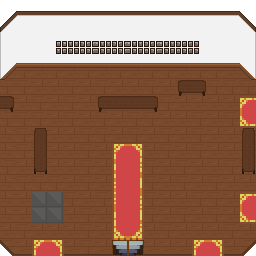
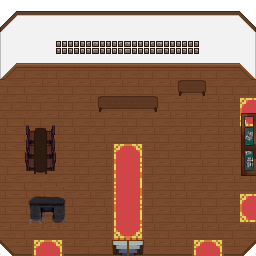
chore: Atualizacao jogos

diff --git a/public/jogos/jogoIsac/index.html b/public/jogos/jogoIsac/index.html
@@ -6,7 +6,7 @@
     <meta name="viewport" content="width=device-width, initial-scale=1.0" />
     <link rel="stylesheet" href="./style.css" />
     <title>Sussuros do Museu</title>
-    <script type="module" crossorigin src="./assets/index-CXEvgy8_.js"></script>
+    <script type="module" crossorigin src="./assets/index-BbrU_5f8.js"></script>
     <link rel="modulepreload" crossorigin href="./assets/phaser-UvlxNa5i.js">
   </head>
 

diff --git a/src/app/jogos/page.tsx b/src/app/jogos/page.tsx
@@ -48,7 +48,7 @@ export default function Jogos() {
   // Página com cards bonitos
   return (
     <div className="min-h-screen p-8 bg-gradient-to-b from-white to-gray-100">
-      <h1 className="text-4xl font-extrabold text-center mb-10">
+      <h1 className="text-4xl font-extrabold text-center mb-10 text-gray-800">
         🎮 Escolha seu jogo
       </h1>
 

diff --git a/public/assets/index-BbrU_5f8.js b/public/assets/index-BbrU_5f8.js
@@ -1,0 +1,1 @@
+import{r as e}from"./phaser-UvlxNa5i.js";!function(){const e=document.createElement("link").relList;if(!(e&&e.supports&&e.supports("modulepreload"))){for(const e of document.querySelectorAll('link[rel="modulepreload"]'))t(e);new MutationObserver((e=>{for(const a of e)if("childList"===a.type)for(const e of a.addedNodes)"LINK"===e.tagName&&"modulepreload"===e.rel&&t(e)})).observe(document,{childList:!0,subtree:!0})}function t(e){if(e.ep)return;e.ep=!0;const t=function(e){const t={};return e.integrity&&(t.integrity=e.integrity),e.referrerPolicy&&(t.referrerPolicy=e.referrerPolicy),"use-credentials"===e.crossOrigin?t.credentials="include":"anonymous"===e.crossOrigin?t.credentials="omit":t.credentials="same-origin",t}(e);fetch(e.href,t)}}();var t=e();class a extends t.Scene{constructor(){super("Boot")}preload(){this.load.image("background","assets/bg.png")}create(){this.scene.start("Preloader")}}class i extends t.Scene{setupMovement(e,t=160){this.character=e,this.characterSpeed=t,this.cursors=this.input.keyboard.createCursorKeys(),this.character.setCollideWorldBounds(!0),this.character.setScale(.5),this.character.body.setSize(40,50),this.character.body.setOffset(12,14)}updateMovement(){this.cursors&&this.character&&(this.character.setVelocity(0),this.cursors.left.isDown?this.character.setVelocityX(-this.characterSpeed):this.cursors.right.isDown&&this.character.setVelocityX(this.characterSpeed),this.cursors.up.isDown?this.character.setVelocityY(-this.characterSpeed):this.cursors.down.isDown&&this.character.setVelocityY(this.characterSpeed))}createDoor(e,t,a,i,s,r,h,c=null){const o=this.physics.add.staticBody(e,t,a,i);return this.physics.add.overlap(this.character,o,(()=>{this.useDoor(s,r,h,c)}),null,this),o}useDoor(e,t,a,i=null){this.registry.set("playerSpawn",{x:t,y:a,doorId:i}),this.scene.start(e)}setupPlayerPosition(e,t){const a=this.registry.get("playerSpawn");a&&a.x&&a.y?(this.character.setPosition(a.x,a.y),this.registry.set("playerSpawn",null)):this.character.setPosition(e,t)}createInteractiveObject(e,t,a,i,s){const r=this.physics.add.staticBody(e,t,a,i);let h=!1;return this.physics.add.overlap(this.character,r,(()=>{h=!0}),null,this),this.physics.world.on("worldbounds",(e=>{e.gameObject===this.character&&(h=!1)})),this.enterKey=this.input.keyboard.addKey(Phaser.Input.Keyboard.KeyCodes.ENTER),this.events.on("update",(()=>{h&&Phaser.Input.Keyboard.JustDown(this.enterKey)&&s()})),r}createCollisionObjects(e){const t=[];return e.forEach((e=>{const a=this.physics.add.staticBody(e.x,e.y,e.width,e.height);t.push(a)})),t}comecarJogoDaMemoriaInicial(){this.registry.set("previousScene",{key:this.scene.key,x:this.character.x,y:this.character.y}),this.scene.start("JogoDaMemoriaInicial")}comecarJogoDaMemoriaIndigena(){this.registry.set("previousScene",{key:this.scene.key,x:this.character.x,y:this.character.y}),this.scene.start("JogoMemoriaIndigena")}comecarJogoDaMemoriaCarroca(){this.registry.set("previousScene",{key:this.scene.key,x:this.character.x,y:this.character.y}),this.scene.start("JogoMemoriaCarroca")}comecarJogoDaMemoriaCinema(){this.registry.set("previousScene",{key:this.scene.key,x:this.character.x,y:this.character.y}),this.scene.start("JogoMemoriaCinema")}voltarParaCenaAnterior(){const e=this.registry.get("previousScene");e?this.scene.start(e.key):this.scene.start("GameInicial")}}class s extends t.Scene{constructor(){super("GameOver")}create(){this.cameras.main.setBackgroundColor(0),this.add.image(512,384,"background").setAlpha(.5),this.add.text(this.cameras.main.centerX,this.cameras.main.centerY,"Fim do Jogo",{fontFamily:"Arial Black",fontSize:32,color:"#ffffff",stroke:"#000000",strokeThickness:4,align:"center"}).setOrigin(.5),this.input.once("pointerdown",(()=>{this.scene.start("MainMenu")}))}}class r extends t.Scene{constructor(){super("MainMenu")}create(){this.add.image(this.cameras.main.centerX,this.cameras.main.centerY,"logo").setDisplaySize(this.cameras.main.width,this.cameras.main.height),this.add.text(512,460,"Menu",{fontFamily:"Arial Black",fontSize:38,color:"#ffffff",stroke:"#000000",strokeThickness:8,align:"center"}).setOrigin(.5),this.input.once("pointerdown",(()=>{this.scene.start("Historia")}))}}class h extends t.Scene{constructor(){super("Preloader")}init(){this.add.image(512,384,"background"),this.add.rectangle(512,384,468,32).setStrokeStyle(1,16777215);const e=this.add.rectangle(282,384,4,28,16777215);this.load.on("progress",(t=>{e.width=4+460*t}))}preload(){this.registry.set("jogoDaMemoriaInicialConcluido",!1),this.registry.set("jogoMemoriaCarrocaConcluido",!1),this.registry.set("jogoMemoriaCinemaConcluido",!1),this.registry.set("jogoMemoriaIndigenaConcluido",!1),this.load.image("logo","/assets/logo.jpg"),this.load.image("controles_imagem","/assets/controles.png"),this.load.image("historia_imagem","/assets/historia.png"),this.load.image("sala_principal","/assets/salas/TemplateSalaPrincipalJogo.png"),this.load.image("sala_indigena","/assets/salas/TemplateSalaPatIndigenaJogo.png"),this.load.image("sala_material","/assets/salas/TemplateSalaPatMaterialJogo.png"),this.load.image("corredor","/assets/salas/TemplateSalaCorredorJogo.png"),this.load.image("sala_carroca","/assets/salas/TemplateSalaCarrocaJogo.png"),this.load.image("sala_chas","/assets/salas/TemplateSalaChasJogo.png"),this.load.image("sala_cinema","/assets/salas/TemplateSalaCinemaJogo.png"),this.load.spritesheet("character","/assets/personagens/Download43242.png",{frameWidth:64,frameHeight:64}),this.load.image("sala_material_pos","/assets/salas/TemplateSalaPatMaterialJogoPos.png"),this.load.image("sala_cinema_pos","/assets/salas/TemplateSalaCinemaJogoPos.png"),this.load.image("sala_chas_pos","/assets/salas/TemplateSalaChasJogoPos.png"),this.load.image("sala_carroca_pos","/assets/salas/TemplateSalaCarrocaJogoPos.png"),this.load.image("sala_indigena_pos","/assets/salas/TemplateSalaPatIndigenaJogoPos.png"),["oncaCranio","cocar","louca","maraca","prato","xicara","jarro","carranca"].forEach((e=>{this.load.image(e,`assets/artefatos/indigena/${e}.png`)})),["Boidemamao","Bull","Canoa","EsculturaIgrejaMatriz","Jarro","ObrasArgila","TernoDivino","VestidoDivino"].forEach((e=>{this.load.image(e,`assets/artefatos/patrimonioMaterial/${e}.png`)})),["CadeiraBarbeiro","Cafeteira","FerroPassar","Lampiao","MaquinaCostura","MaquinaEscrever","Pilao","Projetor"].forEach((e=>{this.load.image(e,`assets/artefatos/cinema/${e}.png`)})),["CapMilitar","carroça","Espada DOMPEDRO","Espada","Medalha","pistola","Rifle","Tronco"].forEach((e=>{this.load.image(e,`assets/artefatos/carroca/${e}.png`)}))}create(){this.scene.start("MainMenu")}}class c extends t.Scene{constructor(){super("Historia")}create(){this.add.image(this.cameras.main.centerX,this.cameras.main.centerY,"historia_imagem").setDisplaySize(this.cameras.main.width,this.cameras.main.height),this.input.once("pointerdown",(()=>{this.scene.start("Controles")}))}}class o extends t.Scene{constructor(){super("Controles")}create(){this.add.image(this.cameras.main.centerX,this.cameras.main.centerY,"controles_imagem").setDisplaySize(this.cameras.main.width,this.cameras.main.height),this.input.once("pointerdown",(()=>{this.scene.start("GameSalaInicial")}))}}const n={type:t.AUTO,width:322,height:260,parent:"game-container",backgroundColor:"#000000",physics:{default:"arcade",arcade:{gravity:{y:0},debug:!1}},scale:{mode:Phaser.Scale.FIT,autoCenter:Phaser.Scale.CENTER_BOTH},scene:[a,h,r,c,o,class extends i{constructor(){super("GameSalaInicial")}create(){this.physics.world.setBounds(30,65,265,192),this.add.image(this.cameras.main.centerX,this.cameras.main.centerY,"sala_principal"),this.character=this.physics.add.sprite(161,220,"character"),this.setupMovement(this.character,160),this.setupPlayerPosition(161,220);const e=this.createCollisionObjects([{x:66,y:130,width:15,height:48},{x:275,y:130,width:15,height:45},{x:130,y:98,width:60,height:16},{x:0,y:98,width:47,height:16},{x:210,y:82,width:30,height:16},{x:64,y:195,width:32,height:30},{x:145,y:242,width:32,height:30}]);this.physics.add.collider(this.character,e),this.createDoor(280,100,15,30,"GameCinema",58,113,"DireitaCima"),this.createDoor(280,195,15,30,"GameCinema",58,210,"DireitaBaixo"),this.createDoor(66,250,30,15,"GameMaterial",80,95,"BaixoEsquerda"),this.createDoor(226,250,30,15,"GameMaterial",223,95,"BaixoDireita"),this.input.once("pointerdown",(()=>{this.scene.start("GameOver")}))}update(){this.updateMovement()}},class extends i{constructor(){super("JogoDaMemoriaInicial"),this.cards=[],this.flippedCards=[],this.matchedPairs=0}create(){this.gridSize=4,this.cardSize=50,this.cards=[],this.flippedCards=[],this.matchedPairs=0,this.canFlip=!0,this.add.image(this.cameras.main.centerX,this.cameras.main.centerY,"sala_material"),this.criarCartas(),this.interface()}criarCartas(){const e=["Boidemamao","Bull","Canoa","EsculturaIgrejaMatriz","Jarro","ObrasArgila","TernoDivino","VestidoDivino"],t=[...e,...e];Phaser.Utils.Array.Shuffle(t);let a=0;for(let i=0;i<this.gridSize;i++)for(let e=0;e<this.gridSize;e++){const s=85+e*this.cardSize,r=60+i*this.cardSize,h=t[a],c=this.add.rectangle(s,r,this.cardSize,this.cardSize,9127187).setStrokeStyle(2,16777215).setInteractive(),o=this.add.sprite(s,r,h).setDisplaySize(this.cardSize-10,this.cardSize-10).setVisible(!1);c.setData({value:h,isFlipped:!1,isMatched:!1,frontImage:o}),c.on("pointerdown",(()=>this.flipCard(c))),this.cards.push(c),a++}}interface(){this.add.text(200,240,"Voltar",{fontSize:"14px",backgroundColor:"#333333",padding:{x:8,y:2}}).setInteractive().on("pointerdown",(()=>{this.voltarParaCenaAnterior()}))}flipCard(e){!this.canFlip||e.getData("isFlipped")||e.getData("isMatched")||(e.setData("isFlipped",!0),e.setFillStyle(16777215),e.getData("frontImage").setVisible(!0),this.flippedCards.push(e),2===this.flippedCards.length&&this.checkMatch())}checkMatch(){this.canFlip=!1;const[e,t]=this.flippedCards;e.getData("value")===t.getData("value")?(e.setData("isMatched",!0),t.setData("isMatched",!0),e.setFillStyle(65280),t.setFillStyle(65280),this.matchedPairs++,this.flippedCards=[],this.canFlip=!0,this.checkGameComplete()):this.time.delayedCall(1e3,(()=>{e.setData("isFlipped",!1),t.setData("isFlipped",!1),e.setFillStyle(9127187),t.setFillStyle(9127187),e.getData("frontImage").setVisible(!1),t.getData("frontImage").setVisible(!1),this.flippedCards=[],this.canFlip=!0}))}checkGameComplete(){this.matchedPairs===this.cards.length/2&&(this.add.text(this.cameras.main.centerX,50,"Memória Completa!",{fontSize:"32px",color:"#00ff00"}).setOrigin(.5),this.createCelebration())}createCelebration(){this.registry.set("jogoDaMemoriaInicialConcluido",!0);for(let e=0;e<20;e++){const e=this.add.circle(Phaser.Math.Between(100,700),Phaser.Math.Between(100,500),5,Phaser.Math.RND.pick([16711680,65280,255,16776960]));this.tweens.add({targets:e,y:600,alpha:0,duration:2e3,ease:"Power2"})}}update(){}},class extends i{constructor(){super("JogoMemoriaIndigena"),this.cards=[],this.flippedCards=[],this.matchedPairs=0}create(){this.gridSize=4,this.cardSize=50,this.cards=[],this.flippedCards=[],this.matchedPairs=0,this.canFlip=!0,this.add.image(this.cameras.main.centerX,this.cameras.main.centerY,"sala__inddigena"),this.criarCartas(),this.interface()}criarCartas(){const e=["oncaCranio","cocar","louca","maraca","prato","xicara","jarro","carranca"],t=[...e,...e];Phaser.Utils.Array.Shuffle(t);let a=0;for(let i=0;i<this.gridSize;i++)for(let e=0;e<this.gridSize;e++){const s=85+e*this.cardSize,r=60+i*this.cardSize,h=t[a],c=this.add.rectangle(s,r,this.cardSize,this.cardSize,9127187).setStrokeStyle(2,16777215).setInteractive(),o=this.add.sprite(s,r,h).setDisplaySize(this.cardSize-10,this.cardSize-10).setVisible(!1);c.setData({value:h,isFlipped:!1,isMatched:!1,frontImage:o}),c.on("pointerdown",(()=>this.flipCard(c))),this.cards.push(c),a++}}interface(){this.add.text(200,240,"Voltar",{fontSize:"14px",backgroundColor:"#333333",padding:{x:8,y:2}}).setInteractive().on("pointerdown",(()=>{this.voltarParaCenaAnterior()}))}flipCard(e){!this.canFlip||e.getData("isFlipped")||e.getData("isMatched")||(e.setData("isFlipped",!0),e.setFillStyle(16777215),e.getData("frontImage").setVisible(!0),this.flippedCards.push(e),2===this.flippedCards.length&&this.checkMatch())}checkMatch(){this.canFlip=!1;const[e,t]=this.flippedCards;e.getData("value")===t.getData("value")?(e.setData("isMatched",!0),t.setData("isMatched",!0),e.setFillStyle(65280),t.setFillStyle(65280),this.matchedPairs++,this.flippedCards=[],this.canFlip=!0,this.checkGameComplete()):this.time.delayedCall(1e3,(()=>{e.setData("isFlipped",!1),t.setData("isFlipped",!1),e.setFillStyle(9127187),t.setFillStyle(9127187),e.getData("frontImage").setVisible(!1),t.getData("frontImage").setVisible(!1),this.flippedCards=[],this.canFlip=!0}))}checkGameComplete(){this.matchedPairs===this.cards.length/2&&(this.add.text(this.cameras.main.centerX,50,"Memória Completa!",{fontSize:"32px",color:"#00ff00"}).setOrigin(.5),this.createCelebration())}createCelebration(){this.registry.set("jogoMemoriaIndigenaConcluido",!0);for(let e=0;e<20;e++){const e=this.add.circle(Phaser.Math.Between(100,700),Phaser.Math.Between(100,500),5,Phaser.Math.RND.pick([16711680,65280,255,16776960]));this.tweens.add({targets:e,y:600,alpha:0,duration:2e3,ease:"Power2"})}}update(){}},class extends i{constructor(){super("JogoMemoriaCarroca"),this.cards=[],this.flippedCards=[],this.matchedPairs=0}create(){this.gridSize=4,this.cardSize=50,this.cards=[],this.flippedCards=[],this.matchedPairs=0,this.canFlip=!0,this.add.image(this.cameras.main.centerX,this.cameras.main.centerY,"sala_carroca"),this.criarCartas(),this.interface()}criarCartas(){const e=["CapMilitar","carroça","Espada DOMPEDRO","Espada","Medalha","pistola","Rifle","Tronco"],t=[...e,...e];Phaser.Utils.Array.Shuffle(t);let a=0;for(let i=0;i<this.gridSize;i++)for(let e=0;e<this.gridSize;e++){const s=85+e*this.cardSize,r=60+i*this.cardSize,h=t[a],c=this.add.rectangle(s,r,this.cardSize,this.cardSize,9127187).setStrokeStyle(2,16777215).setInteractive(),o=this.add.sprite(s,r,h).setDisplaySize(this.cardSize-10,this.cardSize-10).setVisible(!1);c.setData({value:h,isFlipped:!1,isMatched:!1,frontImage:o}),c.on("pointerdown",(()=>this.flipCard(c))),this.cards.push(c),a++}}interface(){this.add.text(200,240,"Voltar",{fontSize:"14px",backgroundColor:"#333333",padding:{x:8,y:2}}).setInteractive().on("pointerdown",(()=>{this.voltarParaCenaAnterior()}))}flipCard(e){!this.canFlip||e.getData("isFlipped")||e.getData("isMatched")||(e.setData("isFlipped",!0),e.setFillStyle(16777215),e.getData("frontImage").setVisible(!0),this.flippedCards.push(e),2===this.flippedCards.length&&this.checkMatch())}checkMatch(){this.canFlip=!1;const[e,t]=this.flippedCards;e.getData("value")===t.getData("value")?(e.setData("isMatched",!0),t.setData("isMatched",!0),e.setFillStyle(65280),t.setFillStyle(65280),this.matchedPairs++,this.flippedCards=[],this.canFlip=!0,this.checkGameComplete()):this.time.delayedCall(1e3,(()=>{e.setData("isFlipped",!1),t.setData("isFlipped",!1),e.setFillStyle(9127187),t.setFillStyle(9127187),e.getData("frontImage").setVisible(!1),t.getData("frontImage").setVisible(!1),this.flippedCards=[],this.canFlip=!0}))}checkGameComplete(){this.matchedPairs===this.cards.length/2&&(this.add.text(this.cameras.main.centerX,50,"Memória Completa!",{fontSize:"32px",color:"#00ff00"}).setOrigin(.5),this.createCelebration())}createCelebration(){this.registry.set("jogoMemoriaCarrocaConcluido",!0);for(let e=0;e<20;e++){const e=this.add.circle(Phaser.Math.Between(100,700),Phaser.Math.Between(100,500),5,Phaser.Math.RND.pick([16711680,65280,255,16776960]));this.tweens.add({targets:e,y:600,alpha:0,duration:2e3,ease:"Power2"})}}update(){}},class extends i{constructor(){super("JogoMemoriaCinema"),this.cards=[],this.flippedCards=[],this.matchedPairs=0}create(){this.gridSize=4,this.cardSize=50,this.cards=[],this.flippedCards=[],this.matchedPairs=0,this.canFlip=!0,this.add.image(this.cameras.main.centerX,this.cameras.main.centerY,"sala_cinema"),this.criarCartas(),this.interface()}criarCartas(){const e=["CadeiraBarbeiro","Cafeteira","FerroPassar","Lampiao","MaquinaCostura","MaquinaEscrever","Pilao","Projetor"],t=[...e,...e];Phaser.Utils.Array.Shuffle(t);let a=0;for(let i=0;i<this.gridSize;i++)for(let e=0;e<this.gridSize;e++){const s=85+e*this.cardSize,r=60+i*this.cardSize,h=t[a],c=this.add.rectangle(s,r,this.cardSize,this.cardSize,9127187).setStrokeStyle(2,16777215).setInteractive(),o=this.add.sprite(s,r,h).setDisplaySize(this.cardSize-10,this.cardSize-10).setVisible(!1);c.setData({value:h,isFlipped:!1,isMatched:!1,frontImage:o}),c.on("pointerdown",(()=>this.flipCard(c))),this.cards.push(c),a++}}interface(){this.add.text(200,240,"Voltar",{fontSize:"14px",backgroundColor:"#333333",padding:{x:8,y:2}}).setInteractive().on("pointerdown",(()=>{this.voltarParaCenaAnterior()}))}flipCard(e){!this.canFlip||e.getData("isFlipped")||e.getData("isMatched")||(e.setData("isFlipped",!0),e.setFillStyle(16777215),e.getData("frontImage").setVisible(!0),this.flippedCards.push(e),2===this.flippedCards.length&&this.checkMatch())}checkMatch(){this.canFlip=!1;const[e,t]=this.flippedCards;e.getData("value")===t.getData("value")?(e.setData("isMatched",!0),t.setData("isMatched",!0),e.setFillStyle(65280),t.setFillStyle(65280),this.matchedPairs++,this.flippedCards=[],this.canFlip=!0,this.checkGameComplete()):this.time.delayedCall(1e3,(()=>{e.setData("isFlipped",!1),t.setData("isFlipped",!1),e.setFillStyle(9127187),t.setFillStyle(9127187),e.getData("frontImage").setVisible(!1),t.getData("frontImage").setVisible(!1),this.flippedCards=[],this.canFlip=!0}))}checkGameComplete(){this.matchedPairs===this.cards.length/2&&(this.add.text(this.cameras.main.centerX,50,"Memória Completa!",{fontSize:"32px",color:"#00ff00"}).setOrigin(.5),this.createCelebration())}createCelebration(){this.registry.set("jogoMemoriaCinemaConcluido",!0);for(let e=0;e<20;e++){const e=this.add.circle(Phaser.Math.Between(100,700),Phaser.Math.Between(100,500),5,Phaser.Math.RND.pick([16711680,65280,255,16776960]));this.tweens.add({targets:e,y:600,alpha:0,duration:2e3,ease:"Power2"})}}update(){}},class extends i{constructor(){super("GameMaterial")}create(){this.physics.world.setBounds(30,65,265,192),this.add.image(this.cameras.main.centerX,this.cameras.main.centerY,"sala_material"+(this.registry.get("jogoDaMemoriaInicialConcluido")?"_pos":"")),this.character=this.physics.add.sprite(100,300,"character"),this.setupPlayerPosition(100,300),this.setupMovement(this.character,160),this.createDoor(67,60,29,15,"GameSalaInicial",80,228,"CimaEsquerda"),this.createDoor(210,60,29,15,"GameSalaInicial",240,228,"CimaDireita"),this.createDoor(280,131,15,30,"GameCorredor",65,128,"LateralDireita");const e=this.createCollisionObjects([{x:30,y:97,width:36,height:34},{x:30,y:160,width:36,height:34},{x:30,y:242,width:265,height:15},{x:112,y:70,width:80,height:12},{x:243,y:225,width:28,height:16},{x:82,y:225,width:45,height:16},{x:273,y:80,width:15,height:48},{x:273,y:165,width:15,height:48}]);this.createInteractiveObject(150,150,40,40,(()=>this.comecarJogoDaMemoriaInicial())),this.physics.add.collider(this.character,e)}update(){this.updateMovement()}},class extends i{constructor(){super("GameCorredor")}create(){this.physics.world.setBounds(35,80,254,80),this.add.image(this.cameras.main.centerX,this.cameras.main.centerY,"corredor"),this.character=this.physics.add.sprite(100,300,"character"),this.setupMovement(this.character,160),this.setupPlayerPosition(100,300),this.createDoor(30,115,15,30,"GameMaterial",260,144,"portaLateralEsquerda"),this.createDoor(99,80,30,15,"GameIndigena"),this.createDoor(194,80,30,15,"GameChas",161,184,"PortaCimaDireita")}update(){this.updateMovement()}},class extends i{constructor(){super("GameIndigena")}create(){this.physics.world.setBounds(80,90,162,118),this.add.image(this.cameras.main.centerX,this.cameras.main.centerY,"sala_indigena"+(this.registry.get("jogoMemoriaIndigenaConcluido")?"_pos":"")),this.character=this.physics.add.sprite(161,184,"character"),this.setupMovement(this.character,160),this.physics.add.collider(this.character,this.createCollisionObjects([{x:84,y:130,width:11,height:45},{x:228,y:130,width:11,height:45},{x:130,y:100,width:60,height:11}])),this.createDoor(146,202,30,15,"GameCorredor",113,115,"porta"),this.createInteractiveObject(150,80,40,40,(()=>this.comecarJogoDaMemoriaIndigena()))}update(){this.updateMovement()}},class extends i{constructor(){super("GameCarroca")}create(){this.physics.world.setBounds(30,65,265,192),this.add.image(this.cameras.main.centerX,this.cameras.main.centerY,"sala_carroca"+(this.registry.get("jogoMemoriaCarrocaConcluido")?"_pos":"")),this.character=this.physics.add.sprite(161,184,"character"),this.setupMovement(this.character,160),this.setupPlayerPosition(161,184),this.createDoor(25,100,15,30,"GameCinema",263,225,"EsquerdaCima"),this.createDoor(25,195,15,30,"GameChas",210,120,"PortaBaixo");const e=this.createCollisionObjects([{x:128,y:98,width:64,height:80},{x:131,y:195,width:60,height:30},{x:33,y:145,width:15,height:33}]);this.physics.add.collider(this.character,e),this.createInteractiveObject(100,150,130,40,(()=>this.comecarJogoDaMemoriaCarroca()))}update(){this.updateMovement()}},class extends i{constructor(){super("GameChas")}create(){this.physics.world.setBounds(80,90,162,118),this.add.image(this.cameras.main.centerX,this.cameras.main.centerY,"sala_chas"+(this.registry.get("jogoMemoriaIndigenaConcluido")?"_pos":"")),this.character=this.physics.add.sprite(161,184,"character"),this.setupPlayerPosition(161,184),this.setupMovement(this.character,160),this.createDoor(146,202,30,15,"GameCorredor",207,150,"portaBaixo"),this.createDoor(231,110,15,30,"GameCarroca",60,208,"PortaLateral");const e=this.createCollisionObjects([{x:80,y:130,width:48,height:45},{x:163,y:100,width:60,height:10},{x:96,y:100,width:35,height:10},{x:100,y:195,width:25,height:10},{x:227,y:145,width:25,height:45}]);this.physics.add.collider(this.character,e)}update(){this.updateMovement()}},class extends i{constructor(){super("GameCinema")}create(){this.physics.world.setBounds(30,65,265,192),this.add.image(this.cameras.main.centerX,this.cameras.main.centerY,"sala_cinema"+(this.registry.get("jogoMemoriaCinemaConcluido")?"_pos":"")),this.character=this.physics.add.sprite(161,184,"character"),this.setupMovement(this.character,160),this.setupPlayerPosition(161,184),this.createDoor(280,212,15,30,"GameCarroca",58,113,"DireitaBaixo"),this.createDoor(25,195,15,30,"GameSalaInicial",260,210,"EsquerdaBaixo"),this.createDoor(25,100,15,30,"GameSalaInicial",263,113,"EsquerdaCima");const e=this.createCollisionObjects([{x:60,y:65,width:220,height:18},{x:66,y:114,width:30,height:45},{x:130,y:114,width:30,height:45},{x:195,y:114,width:30,height:45},{x:273,y:145,width:15,height:33},{x:180,y:195,width:110,height:15}]);this.physics.add.collider(this.character,e),this.createInteractiveObject(150,150,40,40,(()=>this.comecarJogoDaMemoriaCinema()))}update(){this.updateMovement()}},s]};document.addEventListener("DOMContentLoaded",(()=>{new t.Game({...n,parent:"game-container"})}));

diff --git a/public/jogos/jogoIsac/assets/index-BbrU_5f8.js b/public/jogos/jogoIsac/assets/index-BbrU_5f8.js
@@ -1,0 +1,1 @@
+import{r as e}from"./phaser-UvlxNa5i.js";!function(){const e=document.createElement("link").relList;if(!(e&&e.supports&&e.supports("modulepreload"))){for(const e of document.querySelectorAll('link[rel="modulepreload"]'))t(e);new MutationObserver((e=>{for(const a of e)if("childList"===a.type)for(const e of a.addedNodes)"LINK"===e.tagName&&"modulepreload"===e.rel&&t(e)})).observe(document,{childList:!0,subtree:!0})}function t(e){if(e.ep)return;e.ep=!0;const t=function(e){const t={};return e.integrity&&(t.integrity=e.integrity),e.referrerPolicy&&(t.referrerPolicy=e.referrerPolicy),"use-credentials"===e.crossOrigin?t.credentials="include":"anonymous"===e.crossOrigin?t.credentials="omit":t.credentials="same-origin",t}(e);fetch(e.href,t)}}();var t=e();class a extends t.Scene{constructor(){super("Boot")}preload(){this.load.image("background","assets/bg.png")}create(){this.scene.start("Preloader")}}class i extends t.Scene{setupMovement(e,t=160){this.character=e,this.characterSpeed=t,this.cursors=this.input.keyboard.createCursorKeys(),this.character.setCollideWorldBounds(!0),this.character.setScale(.5),this.character.body.setSize(40,50),this.character.body.setOffset(12,14)}updateMovement(){this.cursors&&this.character&&(this.character.setVelocity(0),this.cursors.left.isDown?this.character.setVelocityX(-this.characterSpeed):this.cursors.right.isDown&&this.character.setVelocityX(this.characterSpeed),this.cursors.up.isDown?this.character.setVelocityY(-this.characterSpeed):this.cursors.down.isDown&&this.character.setVelocityY(this.characterSpeed))}createDoor(e,t,a,i,s,r,h,c=null){const o=this.physics.add.staticBody(e,t,a,i);return this.physics.add.overlap(this.character,o,(()=>{this.useDoor(s,r,h,c)}),null,this),o}useDoor(e,t,a,i=null){this.registry.set("playerSpawn",{x:t,y:a,doorId:i}),this.scene.start(e)}setupPlayerPosition(e,t){const a=this.registry.get("playerSpawn");a&&a.x&&a.y?(this.character.setPosition(a.x,a.y),this.registry.set("playerSpawn",null)):this.character.setPosition(e,t)}createInteractiveObject(e,t,a,i,s){const r=this.physics.add.staticBody(e,t,a,i);let h=!1;return this.physics.add.overlap(this.character,r,(()=>{h=!0}),null,this),this.physics.world.on("worldbounds",(e=>{e.gameObject===this.character&&(h=!1)})),this.enterKey=this.input.keyboard.addKey(Phaser.Input.Keyboard.KeyCodes.ENTER),this.events.on("update",(()=>{h&&Phaser.Input.Keyboard.JustDown(this.enterKey)&&s()})),r}createCollisionObjects(e){const t=[];return e.forEach((e=>{const a=this.physics.add.staticBody(e.x,e.y,e.width,e.height);t.push(a)})),t}comecarJogoDaMemoriaInicial(){this.registry.set("previousScene",{key:this.scene.key,x:this.character.x,y:this.character.y}),this.scene.start("JogoDaMemoriaInicial")}comecarJogoDaMemoriaIndigena(){this.registry.set("previousScene",{key:this.scene.key,x:this.character.x,y:this.character.y}),this.scene.start("JogoMemoriaIndigena")}comecarJogoDaMemoriaCarroca(){this.registry.set("previousScene",{key:this.scene.key,x:this.character.x,y:this.character.y}),this.scene.start("JogoMemoriaCarroca")}comecarJogoDaMemoriaCinema(){this.registry.set("previousScene",{key:this.scene.key,x:this.character.x,y:this.character.y}),this.scene.start("JogoMemoriaCinema")}voltarParaCenaAnterior(){const e=this.registry.get("previousScene");e?this.scene.start(e.key):this.scene.start("GameInicial")}}class s extends t.Scene{constructor(){super("GameOver")}create(){this.cameras.main.setBackgroundColor(0),this.add.image(512,384,"background").setAlpha(.5),this.add.text(this.cameras.main.centerX,this.cameras.main.centerY,"Fim do Jogo",{fontFamily:"Arial Black",fontSize:32,color:"#ffffff",stroke:"#000000",strokeThickness:4,align:"center"}).setOrigin(.5),this.input.once("pointerdown",(()=>{this.scene.start("MainMenu")}))}}class r extends t.Scene{constructor(){super("MainMenu")}create(){this.add.image(this.cameras.main.centerX,this.cameras.main.centerY,"logo").setDisplaySize(this.cameras.main.width,this.cameras.main.height),this.add.text(512,460,"Menu",{fontFamily:"Arial Black",fontSize:38,color:"#ffffff",stroke:"#000000",strokeThickness:8,align:"center"}).setOrigin(.5),this.input.once("pointerdown",(()=>{this.scene.start("Historia")}))}}class h extends t.Scene{constructor(){super("Preloader")}init(){this.add.image(512,384,"background"),this.add.rectangle(512,384,468,32).setStrokeStyle(1,16777215);const e=this.add.rectangle(282,384,4,28,16777215);this.load.on("progress",(t=>{e.width=4+460*t}))}preload(){this.registry.set("jogoDaMemoriaInicialConcluido",!1),this.registry.set("jogoMemoriaCarrocaConcluido",!1),this.registry.set("jogoMemoriaCinemaConcluido",!1),this.registry.set("jogoMemoriaIndigenaConcluido",!1),this.load.image("logo","/assets/logo.jpg"),this.load.image("controles_imagem","/assets/controles.png"),this.load.image("historia_imagem","/assets/historia.png"),this.load.image("sala_principal","/assets/salas/TemplateSalaPrincipalJogo.png"),this.load.image("sala_indigena","/assets/salas/TemplateSalaPatIndigenaJogo.png"),this.load.image("sala_material","/assets/salas/TemplateSalaPatMaterialJogo.png"),this.load.image("corredor","/assets/salas/TemplateSalaCorredorJogo.png"),this.load.image("sala_carroca","/assets/salas/TemplateSalaCarrocaJogo.png"),this.load.image("sala_chas","/assets/salas/TemplateSalaChasJogo.png"),this.load.image("sala_cinema","/assets/salas/TemplateSalaCinemaJogo.png"),this.load.spritesheet("character","/assets/personagens/Download43242.png",{frameWidth:64,frameHeight:64}),this.load.image("sala_material_pos","/assets/salas/TemplateSalaPatMaterialJogoPos.png"),this.load.image("sala_cinema_pos","/assets/salas/TemplateSalaCinemaJogoPos.png"),this.load.image("sala_chas_pos","/assets/salas/TemplateSalaChasJogoPos.png"),this.load.image("sala_carroca_pos","/assets/salas/TemplateSalaCarrocaJogoPos.png"),this.load.image("sala_indigena_pos","/assets/salas/TemplateSalaPatIndigenaJogoPos.png"),["oncaCranio","cocar","louca","maraca","prato","xicara","jarro","carranca"].forEach((e=>{this.load.image(e,`assets/artefatos/indigena/${e}.png`)})),["Boidemamao","Bull","Canoa","EsculturaIgrejaMatriz","Jarro","ObrasArgila","TernoDivino","VestidoDivino"].forEach((e=>{this.load.image(e,`assets/artefatos/patrimonioMaterial/${e}.png`)})),["CadeiraBarbeiro","Cafeteira","FerroPassar","Lampiao","MaquinaCostura","MaquinaEscrever","Pilao","Projetor"].forEach((e=>{this.load.image(e,`assets/artefatos/cinema/${e}.png`)})),["CapMilitar","carroça","Espada DOMPEDRO","Espada","Medalha","pistola","Rifle","Tronco"].forEach((e=>{this.load.image(e,`assets/artefatos/carroca/${e}.png`)}))}create(){this.scene.start("MainMenu")}}class c extends t.Scene{constructor(){super("Historia")}create(){this.add.image(this.cameras.main.centerX,this.cameras.main.centerY,"historia_imagem").setDisplaySize(this.cameras.main.width,this.cameras.main.height),this.input.once("pointerdown",(()=>{this.scene.start("Controles")}))}}class o extends t.Scene{constructor(){super("Controles")}create(){this.add.image(this.cameras.main.centerX,this.cameras.main.centerY,"controles_imagem").setDisplaySize(this.cameras.main.width,this.cameras.main.height),this.input.once("pointerdown",(()=>{this.scene.start("GameSalaInicial")}))}}const n={type:t.AUTO,width:322,height:260,parent:"game-container",backgroundColor:"#000000",physics:{default:"arcade",arcade:{gravity:{y:0},debug:!1}},scale:{mode:Phaser.Scale.FIT,autoCenter:Phaser.Scale.CENTER_BOTH},scene:[a,h,r,c,o,class extends i{constructor(){super("GameSalaInicial")}create(){this.physics.world.setBounds(30,65,265,192),this.add.image(this.cameras.main.centerX,this.cameras.main.centerY,"sala_principal"),this.character=this.physics.add.sprite(161,220,"character"),this.setupMovement(this.character,160),this.setupPlayerPosition(161,220);const e=this.createCollisionObjects([{x:66,y:130,width:15,height:48},{x:275,y:130,width:15,height:45},{x:130,y:98,width:60,height:16},{x:0,y:98,width:47,height:16},{x:210,y:82,width:30,height:16},{x:64,y:195,width:32,height:30},{x:145,y:242,width:32,height:30}]);this.physics.add.collider(this.character,e),this.createDoor(280,100,15,30,"GameCinema",58,113,"DireitaCima"),this.createDoor(280,195,15,30,"GameCinema",58,210,"DireitaBaixo"),this.createDoor(66,250,30,15,"GameMaterial",80,95,"BaixoEsquerda"),this.createDoor(226,250,30,15,"GameMaterial",223,95,"BaixoDireita"),this.input.once("pointerdown",(()=>{this.scene.start("GameOver")}))}update(){this.updateMovement()}},class extends i{constructor(){super("JogoDaMemoriaInicial"),this.cards=[],this.flippedCards=[],this.matchedPairs=0}create(){this.gridSize=4,this.cardSize=50,this.cards=[],this.flippedCards=[],this.matchedPairs=0,this.canFlip=!0,this.add.image(this.cameras.main.centerX,this.cameras.main.centerY,"sala_material"),this.criarCartas(),this.interface()}criarCartas(){const e=["Boidemamao","Bull","Canoa","EsculturaIgrejaMatriz","Jarro","ObrasArgila","TernoDivino","VestidoDivino"],t=[...e,...e];Phaser.Utils.Array.Shuffle(t);let a=0;for(let i=0;i<this.gridSize;i++)for(let e=0;e<this.gridSize;e++){const s=85+e*this.cardSize,r=60+i*this.cardSize,h=t[a],c=this.add.rectangle(s,r,this.cardSize,this.cardSize,9127187).setStrokeStyle(2,16777215).setInteractive(),o=this.add.sprite(s,r,h).setDisplaySize(this.cardSize-10,this.cardSize-10).setVisible(!1);c.setData({value:h,isFlipped:!1,isMatched:!1,frontImage:o}),c.on("pointerdown",(()=>this.flipCard(c))),this.cards.push(c),a++}}interface(){this.add.text(200,240,"Voltar",{fontSize:"14px",backgroundColor:"#333333",padding:{x:8,y:2}}).setInteractive().on("pointerdown",(()=>{this.voltarParaCenaAnterior()}))}flipCard(e){!this.canFlip||e.getData("isFlipped")||e.getData("isMatched")||(e.setData("isFlipped",!0),e.setFillStyle(16777215),e.getData("frontImage").setVisible(!0),this.flippedCards.push(e),2===this.flippedCards.length&&this.checkMatch())}checkMatch(){this.canFlip=!1;const[e,t]=this.flippedCards;e.getData("value")===t.getData("value")?(e.setData("isMatched",!0),t.setData("isMatched",!0),e.setFillStyle(65280),t.setFillStyle(65280),this.matchedPairs++,this.flippedCards=[],this.canFlip=!0,this.checkGameComplete()):this.time.delayedCall(1e3,(()=>{e.setData("isFlipped",!1),t.setData("isFlipped",!1),e.setFillStyle(9127187),t.setFillStyle(9127187),e.getData("frontImage").setVisible(!1),t.getData("frontImage").setVisible(!1),this.flippedCards=[],this.canFlip=!0}))}checkGameComplete(){this.matchedPairs===this.cards.length/2&&(this.add.text(this.cameras.main.centerX,50,"Memória Completa!",{fontSize:"32px",color:"#00ff00"}).setOrigin(.5),this.createCelebration())}createCelebration(){this.registry.set("jogoDaMemoriaInicialConcluido",!0);for(let e=0;e<20;e++){const e=this.add.circle(Phaser.Math.Between(100,700),Phaser.Math.Between(100,500),5,Phaser.Math.RND.pick([16711680,65280,255,16776960]));this.tweens.add({targets:e,y:600,alpha:0,duration:2e3,ease:"Power2"})}}update(){}},class extends i{constructor(){super("JogoMemoriaIndigena"),this.cards=[],this.flippedCards=[],this.matchedPairs=0}create(){this.gridSize=4,this.cardSize=50,this.cards=[],this.flippedCards=[],this.matchedPairs=0,this.canFlip=!0,this.add.image(this.cameras.main.centerX,this.cameras.main.centerY,"sala__inddigena"),this.criarCartas(),this.interface()}criarCartas(){const e=["oncaCranio","cocar","louca","maraca","prato","xicara","jarro","carranca"],t=[...e,...e];Phaser.Utils.Array.Shuffle(t);let a=0;for(let i=0;i<this.gridSize;i++)for(let e=0;e<this.gridSize;e++){const s=85+e*this.cardSize,r=60+i*this.cardSize,h=t[a],c=this.add.rectangle(s,r,this.cardSize,this.cardSize,9127187).setStrokeStyle(2,16777215).setInteractive(),o=this.add.sprite(s,r,h).setDisplaySize(this.cardSize-10,this.cardSize-10).setVisible(!1);c.setData({value:h,isFlipped:!1,isMatched:!1,frontImage:o}),c.on("pointerdown",(()=>this.flipCard(c))),this.cards.push(c),a++}}interface(){this.add.text(200,240,"Voltar",{fontSize:"14px",backgroundColor:"#333333",padding:{x:8,y:2}}).setInteractive().on("pointerdown",(()=>{this.voltarParaCenaAnterior()}))}flipCard(e){!this.canFlip||e.getData("isFlipped")||e.getData("isMatched")||(e.setData("isFlipped",!0),e.setFillStyle(16777215),e.getData("frontImage").setVisible(!0),this.flippedCards.push(e),2===this.flippedCards.length&&this.checkMatch())}checkMatch(){this.canFlip=!1;const[e,t]=this.flippedCards;e.getData("value")===t.getData("value")?(e.setData("isMatched",!0),t.setData("isMatched",!0),e.setFillStyle(65280),t.setFillStyle(65280),this.matchedPairs++,this.flippedCards=[],this.canFlip=!0,this.checkGameComplete()):this.time.delayedCall(1e3,(()=>{e.setData("isFlipped",!1),t.setData("isFlipped",!1),e.setFillStyle(9127187),t.setFillStyle(9127187),e.getData("frontImage").setVisible(!1),t.getData("frontImage").setVisible(!1),this.flippedCards=[],this.canFlip=!0}))}checkGameComplete(){this.matchedPairs===this.cards.length/2&&(this.add.text(this.cameras.main.centerX,50,"Memória Completa!",{fontSize:"32px",color:"#00ff00"}).setOrigin(.5),this.createCelebration())}createCelebration(){this.registry.set("jogoMemoriaIndigenaConcluido",!0);for(let e=0;e<20;e++){const e=this.add.circle(Phaser.Math.Between(100,700),Phaser.Math.Between(100,500),5,Phaser.Math.RND.pick([16711680,65280,255,16776960]));this.tweens.add({targets:e,y:600,alpha:0,duration:2e3,ease:"Power2"})}}update(){}},class extends i{constructor(){super("JogoMemoriaCarroca"),this.cards=[],this.flippedCards=[],this.matchedPairs=0}create(){this.gridSize=4,this.cardSize=50,this.cards=[],this.flippedCards=[],this.matchedPairs=0,this.canFlip=!0,this.add.image(this.cameras.main.centerX,this.cameras.main.centerY,"sala_carroca"),this.criarCartas(),this.interface()}criarCartas(){const e=["CapMilitar","carroça","Espada DOMPEDRO","Espada","Medalha","pistola","Rifle","Tronco"],t=[...e,...e];Phaser.Utils.Array.Shuffle(t);let a=0;for(let i=0;i<this.gridSize;i++)for(let e=0;e<this.gridSize;e++){const s=85+e*this.cardSize,r=60+i*this.cardSize,h=t[a],c=this.add.rectangle(s,r,this.cardSize,this.cardSize,9127187).setStrokeStyle(2,16777215).setInteractive(),o=this.add.sprite(s,r,h).setDisplaySize(this.cardSize-10,this.cardSize-10).setVisible(!1);c.setData({value:h,isFlipped:!1,isMatched:!1,frontImage:o}),c.on("pointerdown",(()=>this.flipCard(c))),this.cards.push(c),a++}}interface(){this.add.text(200,240,"Voltar",{fontSize:"14px",backgroundColor:"#333333",padding:{x:8,y:2}}).setInteractive().on("pointerdown",(()=>{this.voltarParaCenaAnterior()}))}flipCard(e){!this.canFlip||e.getData("isFlipped")||e.getData("isMatched")||(e.setData("isFlipped",!0),e.setFillStyle(16777215),e.getData("frontImage").setVisible(!0),this.flippedCards.push(e),2===this.flippedCards.length&&this.checkMatch())}checkMatch(){this.canFlip=!1;const[e,t]=this.flippedCards;e.getData("value")===t.getData("value")?(e.setData("isMatched",!0),t.setData("isMatched",!0),e.setFillStyle(65280),t.setFillStyle(65280),this.matchedPairs++,this.flippedCards=[],this.canFlip=!0,this.checkGameComplete()):this.time.delayedCall(1e3,(()=>{e.setData("isFlipped",!1),t.setData("isFlipped",!1),e.setFillStyle(9127187),t.setFillStyle(9127187),e.getData("frontImage").setVisible(!1),t.getData("frontImage").setVisible(!1),this.flippedCards=[],this.canFlip=!0}))}checkGameComplete(){this.matchedPairs===this.cards.length/2&&(this.add.text(this.cameras.main.centerX,50,"Memória Completa!",{fontSize:"32px",color:"#00ff00"}).setOrigin(.5),this.createCelebration())}createCelebration(){this.registry.set("jogoMemoriaCarrocaConcluido",!0);for(let e=0;e<20;e++){const e=this.add.circle(Phaser.Math.Between(100,700),Phaser.Math.Between(100,500),5,Phaser.Math.RND.pick([16711680,65280,255,16776960]));this.tweens.add({targets:e,y:600,alpha:0,duration:2e3,ease:"Power2"})}}update(){}},class extends i{constructor(){super("JogoMemoriaCinema"),this.cards=[],this.flippedCards=[],this.matchedPairs=0}create(){this.gridSize=4,this.cardSize=50,this.cards=[],this.flippedCards=[],this.matchedPairs=0,this.canFlip=!0,this.add.image(this.cameras.main.centerX,this.cameras.main.centerY,"sala_cinema"),this.criarCartas(),this.interface()}criarCartas(){const e=["CadeiraBarbeiro","Cafeteira","FerroPassar","Lampiao","MaquinaCostura","MaquinaEscrever","Pilao","Projetor"],t=[...e,...e];Phaser.Utils.Array.Shuffle(t);let a=0;for(let i=0;i<this.gridSize;i++)for(let e=0;e<this.gridSize;e++){const s=85+e*this.cardSize,r=60+i*this.cardSize,h=t[a],c=this.add.rectangle(s,r,this.cardSize,this.cardSize,9127187).setStrokeStyle(2,16777215).setInteractive(),o=this.add.sprite(s,r,h).setDisplaySize(this.cardSize-10,this.cardSize-10).setVisible(!1);c.setData({value:h,isFlipped:!1,isMatched:!1,frontImage:o}),c.on("pointerdown",(()=>this.flipCard(c))),this.cards.push(c),a++}}interface(){this.add.text(200,240,"Voltar",{fontSize:"14px",backgroundColor:"#333333",padding:{x:8,y:2}}).setInteractive().on("pointerdown",(()=>{this.voltarParaCenaAnterior()}))}flipCard(e){!this.canFlip||e.getData("isFlipped")||e.getData("isMatched")||(e.setData("isFlipped",!0),e.setFillStyle(16777215),e.getData("frontImage").setVisible(!0),this.flippedCards.push(e),2===this.flippedCards.length&&this.checkMatch())}checkMatch(){this.canFlip=!1;const[e,t]=this.flippedCards;e.getData("value")===t.getData("value")?(e.setData("isMatched",!0),t.setData("isMatched",!0),e.setFillStyle(65280),t.setFillStyle(65280),this.matchedPairs++,this.flippedCards=[],this.canFlip=!0,this.checkGameComplete()):this.time.delayedCall(1e3,(()=>{e.setData("isFlipped",!1),t.setData("isFlipped",!1),e.setFillStyle(9127187),t.setFillStyle(9127187),e.getData("frontImage").setVisible(!1),t.getData("frontImage").setVisible(!1),this.flippedCards=[],this.canFlip=!0}))}checkGameComplete(){this.matchedPairs===this.cards.length/2&&(this.add.text(this.cameras.main.centerX,50,"Memória Completa!",{fontSize:"32px",color:"#00ff00"}).setOrigin(.5),this.createCelebration())}createCelebration(){this.registry.set("jogoMemoriaCinemaConcluido",!0);for(let e=0;e<20;e++){const e=this.add.circle(Phaser.Math.Between(100,700),Phaser.Math.Between(100,500),5,Phaser.Math.RND.pick([16711680,65280,255,16776960]));this.tweens.add({targets:e,y:600,alpha:0,duration:2e3,ease:"Power2"})}}update(){}},class extends i{constructor(){super("GameMaterial")}create(){this.physics.world.setBounds(30,65,265,192),this.add.image(this.cameras.main.centerX,this.cameras.main.centerY,"sala_material"+(this.registry.get("jogoDaMemoriaInicialConcluido")?"_pos":"")),this.character=this.physics.add.sprite(100,300,"character"),this.setupPlayerPosition(100,300),this.setupMovement(this.character,160),this.createDoor(67,60,29,15,"GameSalaInicial",80,228,"CimaEsquerda"),this.createDoor(210,60,29,15,"GameSalaInicial",240,228,"CimaDireita"),this.createDoor(280,131,15,30,"GameCorredor",65,128,"LateralDireita");const e=this.createCollisionObjects([{x:30,y:97,width:36,height:34},{x:30,y:160,width:36,height:34},{x:30,y:242,width:265,height:15},{x:112,y:70,width:80,height:12},{x:243,y:225,width:28,height:16},{x:82,y:225,width:45,height:16},{x:273,y:80,width:15,height:48},{x:273,y:165,width:15,height:48}]);this.createInteractiveObject(150,150,40,40,(()=>this.comecarJogoDaMemoriaInicial())),this.physics.add.collider(this.character,e)}update(){this.updateMovement()}},class extends i{constructor(){super("GameCorredor")}create(){this.physics.world.setBounds(35,80,254,80),this.add.image(this.cameras.main.centerX,this.cameras.main.centerY,"corredor"),this.character=this.physics.add.sprite(100,300,"character"),this.setupMovement(this.character,160),this.setupPlayerPosition(100,300),this.createDoor(30,115,15,30,"GameMaterial",260,144,"portaLateralEsquerda"),this.createDoor(99,80,30,15,"GameIndigena"),this.createDoor(194,80,30,15,"GameChas",161,184,"PortaCimaDireita")}update(){this.updateMovement()}},class extends i{constructor(){super("GameIndigena")}create(){this.physics.world.setBounds(80,90,162,118),this.add.image(this.cameras.main.centerX,this.cameras.main.centerY,"sala_indigena"+(this.registry.get("jogoMemoriaIndigenaConcluido")?"_pos":"")),this.character=this.physics.add.sprite(161,184,"character"),this.setupMovement(this.character,160),this.physics.add.collider(this.character,this.createCollisionObjects([{x:84,y:130,width:11,height:45},{x:228,y:130,width:11,height:45},{x:130,y:100,width:60,height:11}])),this.createDoor(146,202,30,15,"GameCorredor",113,115,"porta"),this.createInteractiveObject(150,80,40,40,(()=>this.comecarJogoDaMemoriaIndigena()))}update(){this.updateMovement()}},class extends i{constructor(){super("GameCarroca")}create(){this.physics.world.setBounds(30,65,265,192),this.add.image(this.cameras.main.centerX,this.cameras.main.centerY,"sala_carroca"+(this.registry.get("jogoMemoriaCarrocaConcluido")?"_pos":"")),this.character=this.physics.add.sprite(161,184,"character"),this.setupMovement(this.character,160),this.setupPlayerPosition(161,184),this.createDoor(25,100,15,30,"GameCinema",263,225,"EsquerdaCima"),this.createDoor(25,195,15,30,"GameChas",210,120,"PortaBaixo");const e=this.createCollisionObjects([{x:128,y:98,width:64,height:80},{x:131,y:195,width:60,height:30},{x:33,y:145,width:15,height:33}]);this.physics.add.collider(this.character,e),this.createInteractiveObject(100,150,130,40,(()=>this.comecarJogoDaMemoriaCarroca()))}update(){this.updateMovement()}},class extends i{constructor(){super("GameChas")}create(){this.physics.world.setBounds(80,90,162,118),this.add.image(this.cameras.main.centerX,this.cameras.main.centerY,"sala_chas"+(this.registry.get("jogoMemoriaIndigenaConcluido")?"_pos":"")),this.character=this.physics.add.sprite(161,184,"character"),this.setupPlayerPosition(161,184),this.setupMovement(this.character,160),this.createDoor(146,202,30,15,"GameCorredor",207,150,"portaBaixo"),this.createDoor(231,110,15,30,"GameCarroca",60,208,"PortaLateral");const e=this.createCollisionObjects([{x:80,y:130,width:48,height:45},{x:163,y:100,width:60,height:10},{x:96,y:100,width:35,height:10},{x:100,y:195,width:25,height:10},{x:227,y:145,width:25,height:45}]);this.physics.add.collider(this.character,e)}update(){this.updateMovement()}},class extends i{constructor(){super("GameCinema")}create(){this.physics.world.setBounds(30,65,265,192),this.add.image(this.cameras.main.centerX,this.cameras.main.centerY,"sala_cinema"+(this.registry.get("jogoMemoriaCinemaConcluido")?"_pos":"")),this.character=this.physics.add.sprite(161,184,"character"),this.setupMovement(this.character,160),this.setupPlayerPosition(161,184),this.createDoor(280,212,15,30,"GameCarroca",58,113,"DireitaBaixo"),this.createDoor(25,195,15,30,"GameSalaInicial",260,210,"EsquerdaBaixo"),this.createDoor(25,100,15,30,"GameSalaInicial",263,113,"EsquerdaCima");const e=this.createCollisionObjects([{x:60,y:65,width:220,height:18},{x:66,y:114,width:30,height:45},{x:130,y:114,width:30,height:45},{x:195,y:114,width:30,height:45},{x:273,y:145,width:15,height:33},{x:180,y:195,width:110,height:15}]);this.physics.add.collider(this.character,e),this.createInteractiveObject(150,150,40,40,(()=>this.comecarJogoDaMemoriaCinema()))}update(){this.updateMovement()}},s]};document.addEventListener("DOMContentLoaded",(()=>{new t.Game({...n,parent:"game-container"})}));